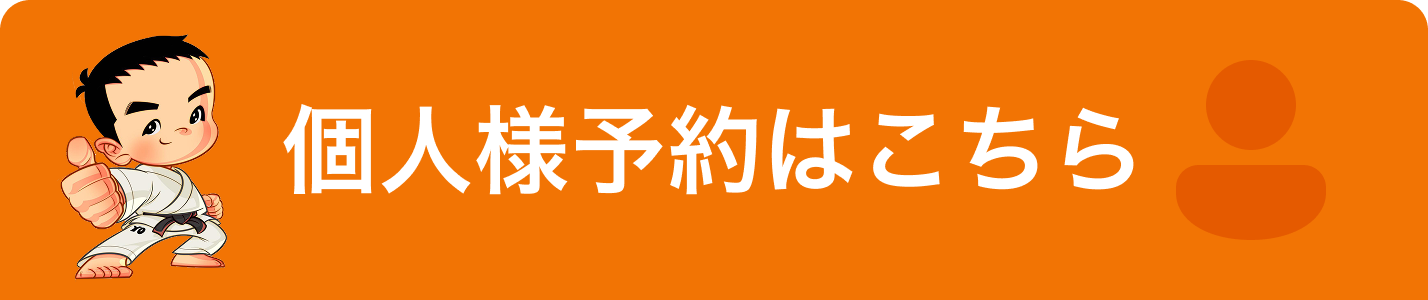
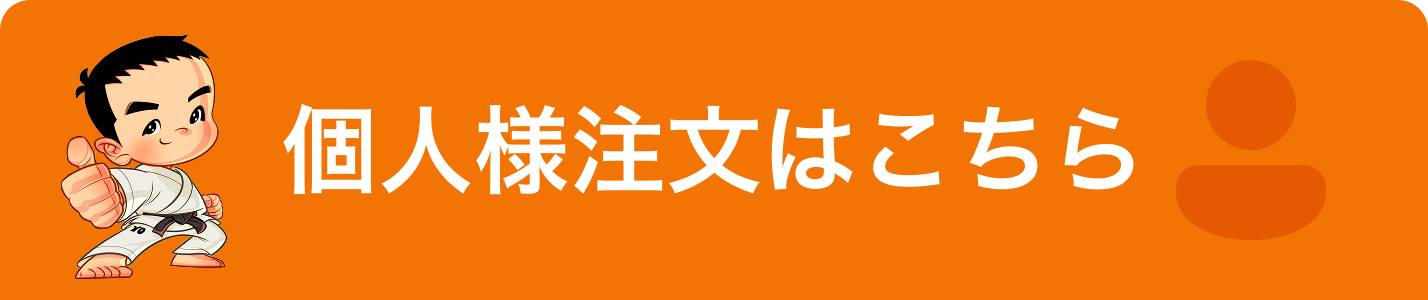
注文セクションの並び替えと個人様ボタン画像更新
- 並び順を「オンライン通販→法人様予約→個人様注文→電話番号」に統一
  (サイドメニュー OrderPanel と 注文ページ Order の両方)
- 個人様ボタン画像を差し替え、alt を「個人様予約」→「個人様注文」に更新

Changed region(s): [[0.4006, 0.33, 0.5546, 0.66]]

diff --git a/src/pages/Order.tsx b/src/pages/Order.tsx
@@ -45,15 +45,25 @@ export default function Order() {
     <div className="order-page">
       <div className="order-page__body">
         <div className="order-page__inner">
-          {/* 個人のお客様 */}
-          <section className="panel-section">
-            <img className="panel-banner" src={IMG.bannerPersonal} alt="個人様予約はこちら" />
-            <div className="order-links">
-              {localOrders.map((o, i) => (
-                <OrderLink key={o.url} order={o} index={i} />
-              ))}
-            </div>
-          </section>
+          {/* オンライン通販でお取り寄せ（一番上・3大カテゴリーの1つとして強調） */}
+          {onlineOrder && (
+            <section className="panel-section">
+              <motion.a
+                className="order-featured"
+                href={onlineOrder.url}
+                target="_blank"
+                rel="noopener noreferrer"
+                {...rowIn(0)}
+              >
+                <span className="order-featured__text">
+                  <span className="order-featured__badge">全国配送</span>
+                  <span className="order-featured__label">{onlineOrder.label}</span>
+                  <span className="order-featured__sub">{onlineOrder.sub}</span>
+                </span>
+                <span className="order-featured__arrow" aria-hidden="true">→</span>
+              </motion.a>
+            </section>
+          )}
 
           {/* 法人のお客様 */}
           <section className="panel-section">
@@ -79,25 +89,15 @@ export default function Order() {
             <p className="panel-note">{CORPORATE_NOTE}</p>
           </section>
 
-          {/* オンライン通販でお取り寄せ（3大カテゴリーの1つとして強調） */}
-          {onlineOrder && (
-            <section className="panel-section">
-              <motion.a
-                className="order-featured"
-                href={onlineOrder.url}
-                target="_blank"
-                rel="noopener noreferrer"
-                {...rowIn(0)}
-              >
-                <span className="order-featured__text">
-                  <span className="order-featured__badge">全国配送</span>
-                  <span className="order-featured__label">{onlineOrder.label}</span>
-                  <span className="order-featured__sub">{onlineOrder.sub}</span>
-                </span>
-                <span className="order-featured__arrow" aria-hidden="true">→</span>
-              </motion.a>
-            </section>
-          )}
+          {/* 個人のお客様 */}
+          <section className="panel-section">
+            <img className="panel-banner" src={IMG.bannerPersonal} alt="個人様注文はこちら" />
+            <div className="order-links">
+              {localOrders.map((o, i) => (
+                <OrderLink key={o.url} order={o} index={i} />
+              ))}
+            </div>
+          </section>
 
           {/* お電話からのご予約 */}
           <motion.a className="order-phone" href={CONTACT.phoneHref} {...rowIn(0)}>

diff --git a/src/components/OrderPanel.tsx b/src/components/OrderPanel.tsx
@@ -48,18 +48,7 @@ export default function OrderPanel() {
       title="ご注文・ご予約"
       subtitle="法人のお客様・個人のお客様、それぞれの専用予約ページへご案内します。"
     >
-      {/* お電話からのご予約 */}
-      <motion.a className="order-phone" href={CONTACT.phoneHref} {...rowIn(0)}>
-        <span className="order-phone__icon" aria-hidden="true"><PhoneIcon /></span>
-        <span className="order-phone__body">
-          <span className="order-phone__label">お電話からのご予約はこちら</span>
-          <span className="order-phone__value">{CONTACT.phone}</span>
-          <span className="order-phone__meta">{CONTACT.phoneHours}</span>
-        </span>
-        <span className="order-phone__arrow" aria-hidden="true">→</span>
-      </motion.a>
-
-      {/* オンライン通販でお取り寄せ（3大カテゴリーの1つとして強調） */}
+      {/* オンライン通販でお取り寄せ（一番上・3大カテゴリーの1つとして強調） */}
       {onlineOrder && (
         <section className="panel-section">
           <motion.a
@@ -105,13 +94,24 @@ export default function OrderPanel() {
 
       {/* 個人のお客様 */}
       <section className="panel-section">
-        <img className="panel-banner" src={IMG.bannerPersonal} alt="個人様予約はこちら" />
+        <img className="panel-banner" src={IMG.bannerPersonal} alt="個人様注文はこちら" />
         <div className="order-links">
           {localOrders.map((o, i) => (
             <OrderLink key={o.url} order={o} index={i} />
           ))}
         </div>
       </section>
+
+      {/* お電話からのご予約 */}
+      <motion.a className="order-phone" href={CONTACT.phoneHref} {...rowIn(0)}>
+        <span className="order-phone__icon" aria-hidden="true"><PhoneIcon /></span>
+        <span className="order-phone__body">
+          <span className="order-phone__label">お電話からのご予約はこちら</span>
+          <span className="order-phone__value">{CONTACT.phone}</span>
+          <span className="order-phone__meta">{CONTACT.phoneHours}</span>
+        </span>
+        <span className="order-phone__arrow" aria-hidden="true">→</span>
+      </motion.a>
     </PanelShell>
   )
 }

diff --git a/src/pages/Order.css b/src/pages/Order.css
@@ -23,7 +23,7 @@
   padding: clamp(2rem, 6vw, 3.25rem) clamp(1.25rem, 5vw, 2rem) clamp(4rem, 9vw, 6rem);
 }
 
-/* Phone block now sits below the online mail-order section — add a gap above it
+/* Phone block sits at the bottom, below the personal-order section — add a gap above it
    to match the rhythm between the other blocks (.order-phone isn't a .panel-section,
    so the .panel-section + .panel-section rule doesn't reach it). */
 .order-page .order-phone {
